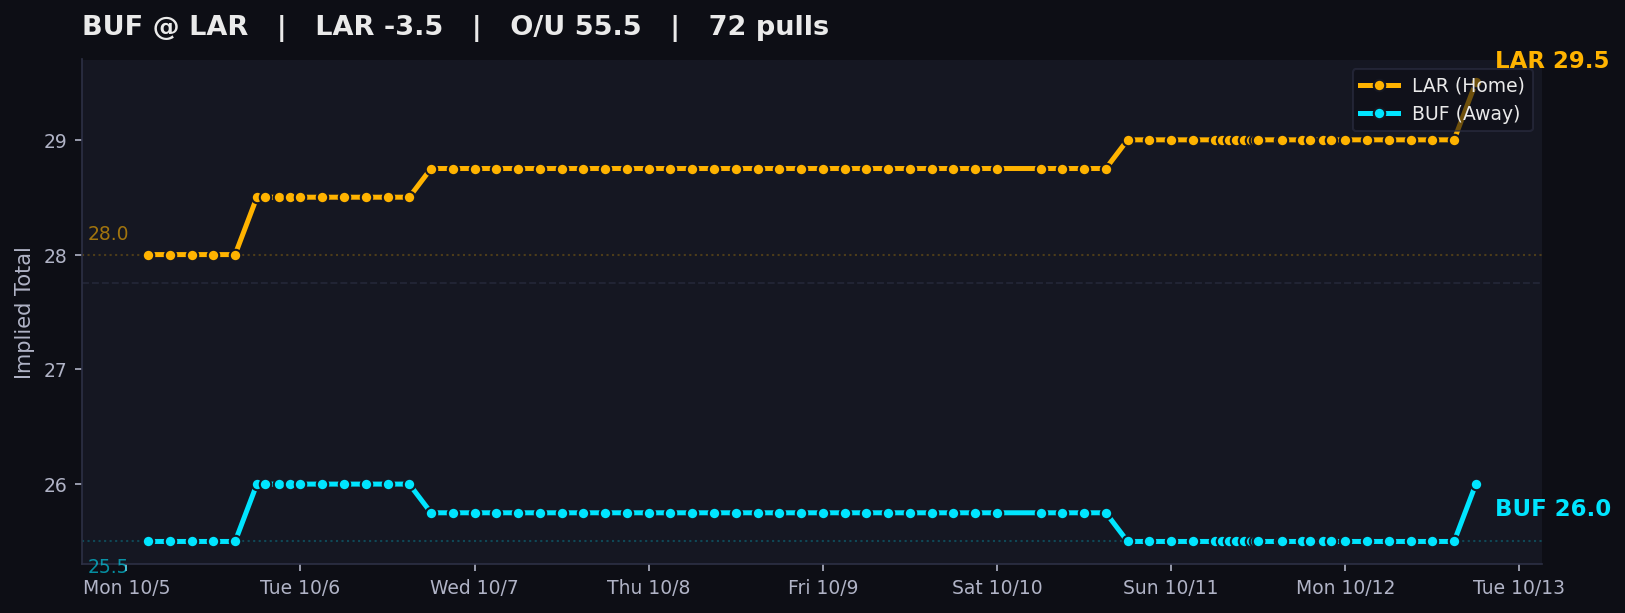
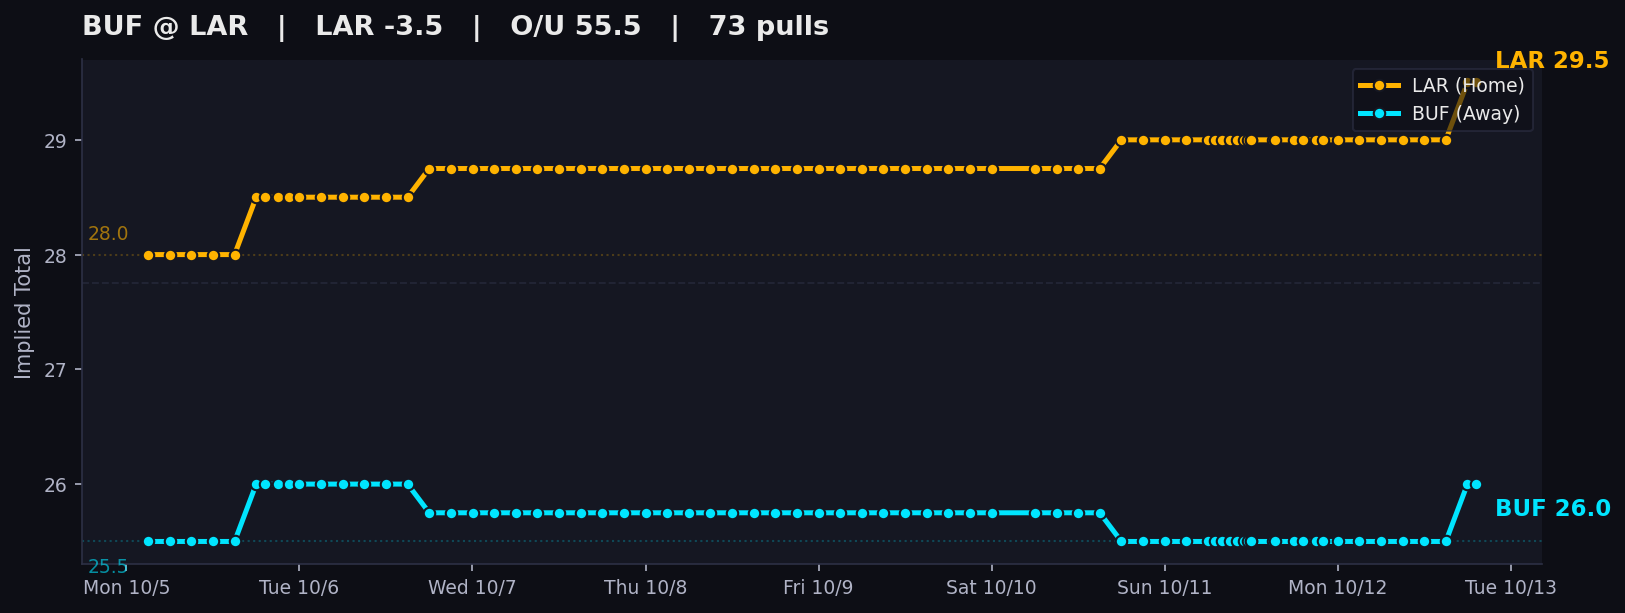
auto: local tracker sync

diff --git a/charts/index.html b/charts/index.html
@@ -311,7 +311,7 @@
     </div>
     <p class='sub'>
       DraftKings main lines &middot; Pinnacle cross-check &middot; Updated by the local Mac tracker<br>
-      Page rendered Mon Oct 12, 2026 6:00 PM CDT &middot; 1086 valid chart dots &middot; 1187 total pull attempts
+      Page rendered Mon Oct 12, 2026 7:10 PM CDT &middot; 1087 valid chart dots &middot; 1188 total pull attempts
       <span class='legend-box'>
         <span class='dot-teal'>● Away implied total</span>
         <span class='dot-amber'>● Home implied total</span>
@@ -324,9 +324,9 @@
     </details>
   </header>
 
-  <div id='feed-banner' class='alert-banner healthy' data-banner-kind='healthy' data-feed-ts='2026-10-12T23:00:01.144498+00:00' data-feed-ts-label='Mon Oct 12, 6:00 PM CDT'>
+  <div id='feed-banner' class='alert-banner healthy' data-banner-kind='healthy' data-feed-ts='2026-10-13T00:10:01.415486+00:00' data-feed-ts-label='Mon Oct 12, 7:10 PM CDT'>
             <span class='status-dot'></span>
-            <b>Feed Healthy:</b> All 1 open markets updated. 14 games have started and is showing its final verified pregame line. Board age based on oldest open market: <span id='feed-time'>Mon Oct 12, 6:00 PM CDT</span> (<span id='feed-age-dynamic'>just now</span>).
+            <b>Feed Healthy:</b> All 1 open markets updated. 14 games have started and is showing its final verified pregame line. Board age based on oldest open market: <span id='feed-time'>Mon Oct 12, 7:10 PM CDT</span> (<span id='feed-age-dynamic'>just now</span>).
         </div>
 
   <nav class='filter-bar' aria-label='Filter games by slate'>
@@ -396,7 +396,7 @@
                 <div><span>Last valid pull</span><strong>Thu 6:00 PM CT</strong></div>
                 <div><span>Chart dots</span><strong>69</strong></div>
             </div>
-                    <img class='expanded-chart' src='TB_DAL.png?v=1791846020' alt='TB at DAL line movement chart'>
+                    <img class='expanded-chart' src='TB_DAL.png?v=1791850221' alt='TB at DAL line movement chart'>
                     <p class='movement-note'>Total 47.5 → 49.5</p>
                 </div>
             </td>
@@ -437,7 +437,7 @@
                 <div><span>Last valid pull</span><strong>Sun 8:00 AM CT</strong></div>
                 <div><span>Chart dots</span><strong>71</strong></div>
             </div>
-                    <img class='expanded-chart' src='PHI_JAX.png?v=1791846020' alt='PHI at JAX line movement chart'>
+                    <img class='expanded-chart' src='PHI_JAX.png?v=1791850221' alt='PHI at JAX line movement chart'>
                     <p class='movement-note'>Spread JAX -3.0 → -7.5; Total 44.5 → 41.5</p>
                 </div>
             </td>
@@ -478,7 +478,7 @@
                 <div><span>Last valid pull</span><strong>Sun 12:00 PM CT</strong></div>
                 <div><span>Chart dots</span><strong>75</strong></div>
             </div>
-                    <img class='expanded-chart' src='CHI_GB.png?v=1791846020' alt='CHI at GB line movement chart'>
+                    <img class='expanded-chart' src='CHI_GB.png?v=1791850221' alt='CHI at GB line movement chart'>
                     <p class='movement-note'>Spread CHI +2.5 → -1.5; Total 45.5 → 46.5</p>
                 </div>
             </td>
@@ -513,7 +513,7 @@
                 <div><span>Last valid pull</span><strong>Sun 12:00 PM CT</strong></div>
                 <div><span>Chart dots</span><strong>64</strong></div>
             </div>
-                    <img class='expanded-chart' src='IND_PIT.png?v=1791846020' alt='IND at PIT line movement chart'>
+                    <img class='expanded-chart' src='IND_PIT.png?v=1791850221' alt='IND at PIT line movement chart'>
                     <p class='movement-note'>Spread PIT -2.5 → -3.0; Total 44.5 → 41.5</p>
                 </div>
             </td>
@@ -548,7 +548,7 @@
                 <div><span>Last valid pull</span><strong>Sun 12:00 PM CT</strong></div>
                 <div><span>Chart dots</span><strong>73</strong></div>
             </div>
-                    <img class='expanded-chart' src='MIN_NO.png?v=1791846020' alt='MIN at NO line movement chart'>
+                    <img class='expanded-chart' src='MIN_NO.png?v=1791850221' alt='MIN at NO line movement chart'>
                     <p class='movement-note'>Total 44.5 → 41.5</p>
                 </div>
             </td>
@@ -583,7 +583,7 @@
                 <div><span>Last valid pull</span><strong>Sun 12:00 PM CT</strong></div>
                 <div><span>Chart dots</span><strong>68</strong></div>
             </div>
-                    <img class='expanded-chart' src='NYG_WAS.png?v=1791846020' alt='NYG at WAS line movement chart'>
+                    <img class='expanded-chart' src='NYG_WAS.png?v=1791850221' alt='NYG at WAS line movement chart'>
                     <p class='movement-note'>Spread WAS -2.5 → -3.5; Total 43.5 → 41.5</p>
                 </div>
             </td>
@@ -618,7 +618,7 @@
                 <div><span>Last valid pull</span><strong>Sun 12:00 PM CT</strong></div>
                 <div><span>Chart dots</span><strong>75</strong></div>
             </div>
-                    <img class='expanded-chart' src='CIN_MIA.png?v=1791846020' alt='CIN at MIA line movement chart'>
+                    <img class='expanded-chart' src='CIN_MIA.png?v=1791850221' alt='CIN at MIA line movement chart'>
                     <p class='movement-note'>Spread CIN -8.5 → -7.0; Total 46.5 → 44.5</p>
                 </div>
             </td>
@@ -653,7 +653,7 @@
                 <div><span>Last valid pull</span><strong>Sun 12:00 PM CT</strong></div>
                 <div><span>Chart dots</span><strong>75</strong></div>
             </div>
-                    <img class='expanded-chart' src='HOU_TEN.png?v=1791846020' alt='HOU at TEN line movement chart'>
+                    <img class='expanded-chart' src='HOU_TEN.png?v=1791850221' alt='HOU at TEN line movement chart'>
                     <p class='movement-note'>Total 39.5 → 37.5</p>
                 </div>
             </td>
@@ -688,7 +688,7 @@
                 <div><span>Last valid pull</span><strong>Sun 12:00 PM CT</strong></div>
                 <div><span>Chart dots</span><strong>64</strong></div>
             </div>
-                    <img class='expanded-chart' src='CLE_NYJ.png?v=1791846020' alt='CLE at NYJ line movement chart'>
+                    <img class='expanded-chart' src='CLE_NYJ.png?v=1791850221' alt='CLE at NYJ line movement chart'>
                     <p class='movement-note'>Spread NYJ -1.5 → -2.5; Total 39.5 → 38.5</p>
                 </div>
             </td>
@@ -723,7 +723,7 @@
                 <div><span>Last valid pull</span><strong>Sun 12:00 PM CT</strong></div>
                 <div><span>Chart dots</span><strong>75</strong></div>
             </div>
-                    <img class='expanded-chart' src='LVR_NE.png?v=1791846020' alt='LVR at NE line movement chart'>
+                    <img class='expanded-chart' src='LVR_NE.png?v=1791850221' alt='LVR at NE line movement chart'>
                     <p class='movement-note'>Total 44.5 → 45.5</p>
                 </div>
             </td>
@@ -764,7 +764,7 @@
                 <div><span>Last valid pull</span><strong>Sun 3:20 PM CT</strong></div>
                 <div><span>Chart dots</span><strong>77</strong></div>
             </div>
-                    <img class='expanded-chart' src='DET_ARI.png?v=1791846020' alt='DET at ARI line movement chart'>
+                    <img class='expanded-chart' src='DET_ARI.png?v=1791850221' alt='DET at ARI line movement chart'>
                     <p class='movement-note'>Total 52.5 → 55.5</p>
                 </div>
             </td>
@@ -799,7 +799,7 @@
                 <div><span>Last valid pull</span><strong>Sun 3:20 PM CT</strong></div>
                 <div><span>Chart dots</span><strong>79</strong></div>
             </div>
-                    <img class='expanded-chart' src='SF_SEA.png?v=1791846020' alt='SF at SEA line movement chart'>
+                    <img class='expanded-chart' src='SF_SEA.png?v=1791850221' alt='SF at SEA line movement chart'>
                     <p class='movement-note'>Total 47.5 → 45.5</p>
                 </div>
             </td>
@@ -834,7 +834,7 @@
                 <div><span>Last valid pull</span><strong>Sun 3:00 PM CT</strong></div>
                 <div><span>Chart dots</span><strong>73</strong></div>
             </div>
-                    <img class='expanded-chart' src='DEN_LAC.png?v=1791846020' alt='DEN at LAC line movement chart'>
+                    <img class='expanded-chart' src='DEN_LAC.png?v=1791850221' alt='DEN at LAC line movement chart'>
                     <p class='movement-note'>Spread DEN -2.5 → -3.5; Total 43.5 → 42.5</p>
                 </div>
             </td>
@@ -875,7 +875,7 @@
                 <div><span>Last valid pull</span><strong>Sun 7:10 PM CT</strong></div>
                 <div><span>Chart dots</span><strong>76</strong></div>
             </div>
-                    <img class='expanded-chart' src='BAL_ATL.png?v=1791846020' alt='BAL at ATL line movement chart'>
+                    <img class='expanded-chart' src='BAL_ATL.png?v=1791850221' alt='BAL at ATL line movement chart'>
                     <p class='movement-note'>Spread ATL +6.0 → -3.5; Total 49.5 → 43.5</p>
                 </div>
             </td>
@@ -896,8 +896,8 @@
             <td class='it-away'>BUF 26.0</td>
             <td class='it-home'>LAR 29.5</td>
             <td class='reason' title='Spread LAR -2.5 → -3.5; Total 53.5 → 55.5'>Spread LAR -2.5 → -3.5; Total 53.5 → 55.5</td>
-            <td style='text-align:center;'><span class='pill-fresh'>6:00 PM CT</span></td>
-            <td class='snaps'>72</td>
+            <td style='text-align:center;'><span class='pill-fresh'>7:10 PM CT</span></td>
+            <td class='snaps'>73</td>
         </tr>
         <tr id='desktop-panel-BUF_LAR' class='chart-detail-row' data-slate='MNF' data-game-panel='BUF_LAR' hidden>
             <td colspan='12'>
@@ -913,10 +913,10 @@
                 <div><span>Current total</span><strong>55.5</strong></div>
                 <div><span>Away implied</span><strong class='it-away'>BUF 26.0</strong></div>
                 <div><span>Home implied</span><strong class='it-home'>LAR 29.5</strong></div>
-                <div><span>Last valid pull</span><strong>6:00 PM CT</strong></div>
-                <div><span>Chart dots</span><strong>72</strong></div>
+                <div><span>Last valid pull</span><strong>7:10 PM CT</strong></div>
+                <div><span>Chart dots</span><strong>73</strong></div>
             </div>
-                    <img class='expanded-chart' src='BUF_LAR.png?v=1791846020' alt='BUF at LAR line movement chart'>
+                    <img class='expanded-chart' src='BUF_LAR.png?v=1791850221' alt='BUF at LAR line movement chart'>
                     <p class='movement-note'>Spread LAR -2.5 → -3.5; Total 53.5 → 55.5</p>
                 </div>
             </td>
@@ -951,7 +951,7 @@
                 <div><span>Last valid pull</span><strong>Thu 6:00 PM CT</strong></div>
                 <div><span>Chart dots</span><strong>69</strong></div>
             </div>
-                <img class='expanded-chart' src='TB_DAL.png?v=1791846020' alt='TB at DAL line movement chart'>
+                <img class='expanded-chart' src='TB_DAL.png?v=1791850221' alt='TB at DAL line movement chart'>
                 <p class='pull-note'><span class='pull-dot'></span> Every dot is a valid completed pull · 69 chart dots</p>
             </div>
         </article><article class='mobile-game-card closed-game' data-slate='OTHER_PRIMETIME' data-game='PHI_JAX'>
@@ -978,7 +978,7 @@
                 <div><span>Last valid pull</span><strong>Sun 8:00 AM CT</strong></div>
                 <div><span>Chart dots</span><strong>71</strong></div>
             </div>
-                <img class='expanded-chart' src='PHI_JAX.png?v=1791846020' alt='PHI at JAX line movement chart'>
+                <img class='expanded-chart' src='PHI_JAX.png?v=1791850221' alt='PHI at JAX line movement chart'>
                 <p class='pull-note'><span class='pull-dot'></span> Every dot is a valid completed pull · 71 chart dots</p>
             </div>
         </article><article class='mobile-game-card closed-game' data-slate='SUN_EARLY' data-game='CHI_GB'>
@@ -1005,7 +1005,7 @@
                 <div><span>Last valid pull</span><strong>Sun 12:00 PM CT</strong></div>
                 <div><span>Chart dots</span><strong>75</strong></div>
             </div>
-                <img class='expanded-chart' src='CHI_GB.png?v=1791846020' alt='CHI at GB line movement chart'>
+                <img class='expanded-chart' src='CHI_GB.png?v=1791850221' alt='CHI at GB line movement chart'>
                 <p class='pull-note'><span class='pull-dot'></span> Every dot is a valid completed pull · 75 chart dots</p>
             </div>
         </article><article class='mobile-game-card closed-game' data-slate='SUN_EARLY' data-game='IND_PIT'>
@@ -1032,7 +1032,7 @@
                 <div><span>Last valid pull</span><strong>Sun 12:00 PM CT</strong></div>
                 <div><span>Chart dots</span><strong>64</strong></div>
             </div>
-                <img class='expanded-chart' src='IND_PIT.png?v=1791846020' alt='IND at PIT line movement chart'>
+                <img class='expanded-chart' src='IND_PIT.png?v=1791850221' alt='IND at PIT line movement chart'>
                 <p class='pull-note'><span class='pull-dot'></span> Every dot is a valid completed pull · 64 chart dots</p>
             </div>
         </article><article class='mobile-game-card closed-game' data-slate='SUN_EARLY' data-game='MIN_NO'>
@@ -1059,7 +1059,7 @@
                 <div><span>Last valid pull</span><strong>Sun 12:00 PM CT</strong></div>
                 <div><span>Chart dots</span><strong>73</strong></div>
             </div>
-                <img class='expanded-chart' src='MIN_NO.png?v=1791846020' alt='MIN at NO line movement chart'>
+                <img class='expanded-chart' src='MIN_NO.png?v=1791850221' alt='MIN at NO line movement chart'>
                 <p class='pull-note'><span class='pull-dot'></span> Every dot is a valid completed pull · 73 chart dots</p>
             </div>
         </article><article class='mobile-game-card closed-game' data-slate='SUN_EARLY' data-game='NYG_WAS'>
@@ -1086,7 +1086,7 @@
                 <div><span>Last valid pull</span><strong>Sun 12:00 PM CT</strong></div>
                 <div><span>Chart dots</span><strong>68</strong></div>
             </div>
-                <img class='expanded-chart' src='NYG_WAS.png?v=1791846020' alt='NYG at WAS line movement chart'>
+                <img class='expanded-chart' src='NYG_WAS.png?v=1791850221' alt='NYG at WAS line movement chart'>
                 <p class='pull-note'><span class='pull-dot'></span> Every dot is a valid completed pull · 68 chart dots</p>
             </div>
         </article><article class='mobile-game-card closed-game' data-slate='SUN_EARLY' data-game='CIN_MIA'>
@@ -1113,7 +1113,7 @@
                 <div><span>Last valid pull</span><strong>Sun 12:00 PM CT</strong></div>
                 <div><span>Chart dots</span><strong>75</strong></div>
             </div>
-                <img class='expanded-chart' src='CIN_MIA.png?v=1791846020' alt='CIN at MIA line movement chart'>
+                <img class='expanded-chart' src='CIN_MIA.png?v=1791850221' alt='CIN at MIA line movement chart'>
                 <p class='pull-note'><span class='pull-dot'></span> Every dot is a valid completed pull · 75 chart dots</p>
             </div>
         </article><article class='mobile-game-card closed-game' data-slate='SUN_EARLY' data-game='HOU_TEN'>
@@ -1140,7 +1140,7 @@
                 <div><span>Last valid pull</span><strong>Sun 12:00 PM CT</strong></div>
                 <div><span>Chart dots</span><strong>75</strong></div>
             </div>
-                <img class='expanded-chart' src='HOU_TEN.png?v=1791846020' alt='HOU at TEN line movement chart'>
+                <img class='expanded-chart' src='HOU_TEN.png?v=1791850221' alt='HOU at TEN line movement chart'>
                 <p class='pull-note'><span class='pull-dot'></span> Every dot is a valid completed pull · 75 chart dots</p>
             </div>
         </article><article class='mobile-game-card closed-game' data-slate='SUN_EARLY' data-game='CLE_NYJ'>
@@ -1167,7 +1167,7 @@
                 <div><span>Last valid pull</span><strong>Sun 12:00 PM CT</strong></div>
                 <div><span>Chart dots</span><strong>64</strong></div>
             </div>
-                <img class='expanded-chart' src='CLE_NYJ.png?v=1791846020' alt='CLE at NYJ line movement chart'>
+                <img class='expanded-chart' src='CLE_NYJ.png?v=1791850221' alt='CLE at NYJ line movement chart'>
                 <p class='pull-note'><span class='pull-dot'></span> Every dot is a valid completed pull · 64 chart dots</p>
             </div>
         </article><article class='mobile-game-card closed-game' data-slate='SUN_EARLY' data-game='LVR_NE'>
@@ -1194,7 +1194,7 @@
                 <div><span>Last valid pull</span><strong>Sun 12:00 PM CT</strong></div>
                 <div><span>Chart dots</span><strong>75</strong></div>
             </div>
-                <img class='expanded-chart' src='LVR_NE.png?v=1791846020' alt='LVR at NE line movement chart'>
+                <img class='expanded-chart' src='LVR_NE.png?v=1791850221' alt='LVR at NE line movement chart'>
                 <p class='pull-note'><span class='pull-dot'></span> Every dot is a valid completed pull · 75 chart dots</p>
             </div>
         </article><article class='mobile-game-card closed-game' data-slate='SUN_LATE' data-game='DET_ARI'>
@@ -1221,7 +1221,7 @@
                 <div><span>Last valid pull</span><strong>Sun 3:20 PM CT</strong></div>
                 <div><span>Chart dots</span><strong>77</strong></div>
             </div>
-                <img class='expanded-chart' src='DET_ARI.png?v=1791846020' alt='DET at ARI line movement chart'>
+                <img class='expanded-chart' src='DET_ARI.png?v=1791850221' alt='DET at ARI line movement chart'>
                 <p class='pull-note'><span class='pull-dot'></span> Every dot is a valid completed pull · 77 chart dots</p>
             </div>
         </article><article class='mobile-game-card closed-game' data-slate='SUN_LATE' data-game='SF_SEA'>
@@ -1248,7 +1248,7 @@
                 <div><span>Last valid pull</span><strong>Sun 3:20 PM CT</strong></div>
                 <div><span>Chart dots</span><strong>79</strong></div>
             </div>
-                <img class='expanded-chart' src='SF_SEA.png?v=1791846020' alt='SF at SEA line movement chart'>
+                <img class='expanded-chart' src='SF_SEA.png?v=1791850221' alt='SF at SEA line movement chart'>
                 <p class='pull-note'><span class='pull-dot'></span> Every dot is a valid completed pull · 79 chart dots</p>
             </div>
         </article><article class='mobile-game-card closed-game' data-slate='SUN_LATE' data-game='DEN_LAC'>
@@ -1275,7 +1275,7 @@
                 <div><span>Last valid pull</span><strong>Sun 3:00 PM CT</strong></div>
                 <div><span>Chart dots</span><strong>73</strong></div>
             </div>
-                <img class='expanded-chart' src='DEN_LAC.png?v=1791846020' alt='DEN at LAC line movement chart'>
+                <img class='expanded-chart' src='DEN_LAC.png?v=1791850221' alt='DEN at LAC line movement chart'>
                 <p class='pull-note'><span class='pull-dot'></span> Every dot is a valid completed pull · 73 chart dots</p>
             </div>
         </article><article class='mobile-game-card closed-game' data-slate='SNF' data-game='BAL_ATL'>
@@ -1302,7 +1302,7 @@
                 <div><span>Last valid pull</span><strong>Sun 7:10 PM CT</strong></div>
                 <div><span>Chart dots</span><strong>76</strong></div>
             </div>
-                <img class='expanded-chart' src='BAL_ATL.png?v=1791846020' alt='BAL at ATL line movement chart'>
+                <img class='expanded-chart' src='BAL_ATL.png?v=1791850221' alt='BAL at ATL line movement chart'>
                 <p class='pull-note'><span class='pull-dot'></span> Every dot is a valid completed pull · 76 chart dots</p>
             </div>
         </article><article class='mobile-game-card ' data-slate='MNF' data-game='BUF_LAR'>
@@ -1326,11 +1326,11 @@
                 <div><span>Current total</span><strong>55.5</strong></div>
                 <div><span>Away implied</span><strong class='it-away'>BUF 26.0</strong></div>
                 <div><span>Home implied</span><strong class='it-home'>LAR 29.5</strong></div>
-                <div><span>Last valid pull</span><strong>6:00 PM CT</strong></div>
-                <div><span>Chart dots</span><strong>72</strong></div>
+                <div><span>Last valid pull</span><strong>7:10 PM CT</strong></div>
+                <div><span>Chart dots</span><strong>73</strong></div>
             </div>
-                <img class='expanded-chart' src='BUF_LAR.png?v=1791846020' alt='BUF at LAR line movement chart'>
-                <p class='pull-note'><span class='pull-dot'></span> Every dot is a valid completed pull · 72 chart dots</p>
+                <img class='expanded-chart' src='BUF_LAR.png?v=1791850221' alt='BUF at LAR line movement chart'>
+                <p class='pull-note'><span class='pull-dot'></span> Every dot is a valid completed pull · 73 chart dots</p>
             </div>
         </article>
   </section>
